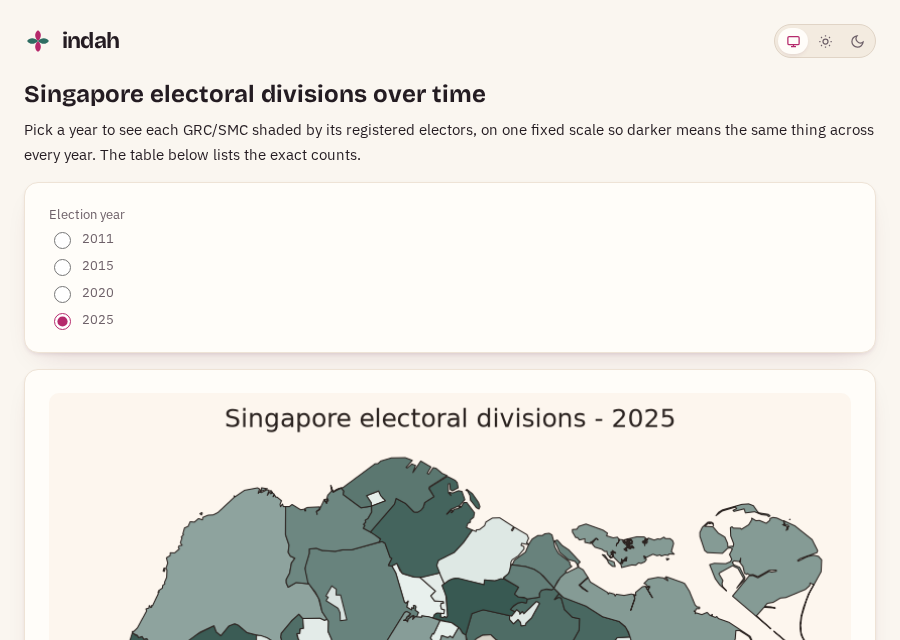
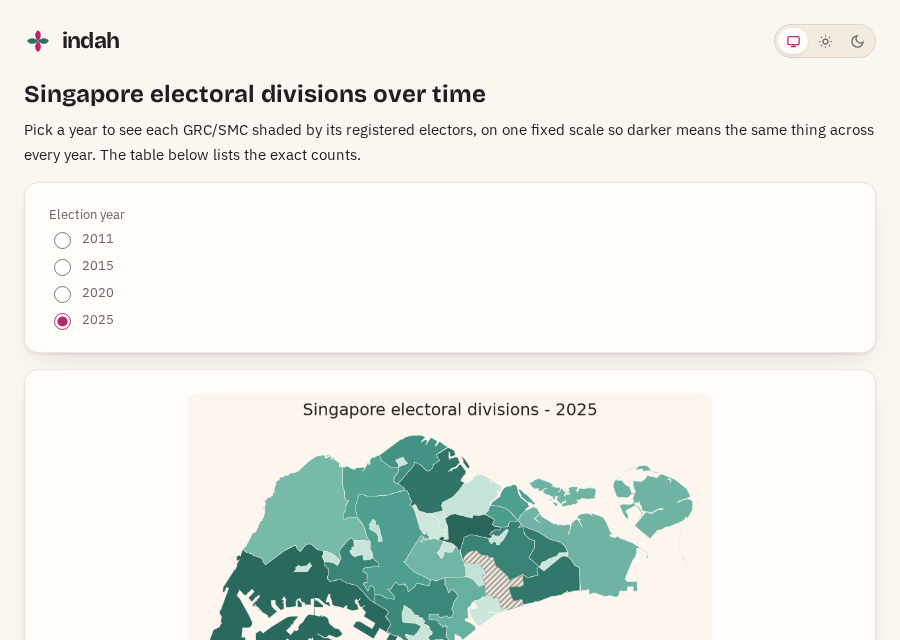
GRC map demo: readable colourbar, better ramp, hatched no-data, light outlines (IND-231) (#284)

Changed region(s): [[0.1244, 0.625, 0.9333, 1.0]]

diff --git a/examples/grc_map.py b/examples/grc_map.py
@@ -670,10 +670,14 @@ _CACHE: dict[str, str] = {
 YEARS: list[str] = sorted(_CACHE)
 DEFAULT_YEAR = YEARS[-1] if YEARS else ""
 
-NO_DATA_COLOR = "#d8d2c8"  # a neutral Studio muted tone
+NO_DATA_COLOR = "#e9e4dc"  # drawn hatched, so it never reads as "the lowest count"
+NO_DATA_EDGE = "#9a928a"
 INK = "#2b2320"
-RAMP_LOW = "#eef5f2"  # pale teal tint
-RAMP_HIGH = "#173d35"  # deep teal, darker than the Studio accent for more range
+BACKGROUND = "#fdf6ee"
+RAMP_LOW = "#d3e9e0"  # light teal, still visible against the page background
+RAMP_MID = ("#92cbb9", "#45998a")  # two mid stops so the middle of the range is not muddy grey
+RAMP_HIGH = "#0f3a31"  # deep teal, darker than the Studio accent for more range
+RAMP = [RAMP_LOW, *RAMP_MID, RAMP_HIGH]
 
 _decoded: dict[str, dict[str, Any]] = {}
 
@@ -698,15 +702,6 @@ def _global_domain() -> tuple[int, int]:
     return (min(values), max(values)) if values else (0, 1)
 
 
-def _lerp_color(t: float) -> tuple[float, float, float]:
-    def hex_to_rgb(h: str) -> tuple[float, float, float]:
-        h = h.lstrip("#")
-        return tuple(int(h[i : i + 2], 16) / 255 for i in (0, 2, 4))
-
-    lo, hi = hex_to_rgb(RAMP_LOW), hex_to_rgb(RAMP_HIGH)
-    return tuple(lo[i] + (hi[i] - lo[i]) * t for i in range(3))
-
-
 def render_choropleth(year: str):
     """Render one year's divisions as a styled matplotlib Figure, colored by
     registered electors on the fixed global scale."""
@@ -719,33 +714,48 @@ def render_choropleth(year: str):
     from matplotlib.collections import PolyCollection
     from matplotlib.colors import LinearSegmentedColormap, Normalize
     from matplotlib.figure import Figure
+    from matplotlib.patches import Patch
+    from matplotlib.ticker import FuncFormatter, MaxNLocator
 
     data = _load(year)
     vmin, vmax = _global_domain()
-    cmap = LinearSegmentedColormap.from_list("indah_teal", [RAMP_LOW, RAMP_HIGH])
+    cmap = LinearSegmentedColormap.from_list("indah_teal", RAMP)
     norm = Normalize(vmin=vmin, vmax=vmax)
 
     rings: list[list[list[float]]] = []
-    colors: list[tuple[float, float, float]] = []
+    colors: list[tuple[float, ...]] = []
+    missing: list[list[list[float]]] = []
     all_lat: list[float] = []
     for division in data["divisions"]:
         count = division["electors"]
-        color = _lerp_color(norm(count)) if count is not None else _lerp_color(-1)
         for ring in division["rings"]:
-            rings.append(ring)
-            colors.append(color if count is not None else None)
+            if count is None:
+                missing.append(ring)
+            else:
+                rings.append(ring)
+                colors.append(cmap(norm(count)))
             all_lat.extend(y for _x, y in ring)
-    # `None` placeholders (no-data divisions) render as the neutral gray, not the ramp.
-    face_colors = [c if c is not None else NO_DATA_COLOR for c in colors]
 
     lat0 = sum(all_lat) / len(all_lat) if all_lat else 1.35
 
     fig = Figure(figsize=(6, 4.6), dpi=150)
     ax = fig.add_subplot(111)
-    fig.patch.set_facecolor("#fdf6ee")
-    ax.set_facecolor("#fdf6ee")
-    coll = PolyCollection(rings, facecolors=face_colors, edgecolors=INK, linewidths=0.5)
-    ax.add_collection(coll)
+    fig.patch.set_facecolor(BACKGROUND)
+    ax.set_facecolor(BACKGROUND)
+    # Pale hairlines between the fills, not heavy ink outlines.
+    ax.add_collection(
+        PolyCollection(rings, facecolors=colors, edgecolors=BACKGROUND, linewidths=0.3)
+    )
+    if missing:
+        ax.add_collection(
+            PolyCollection(
+                missing,
+                facecolors=NO_DATA_COLOR,
+                edgecolors=NO_DATA_EDGE,
+                linewidths=0.3,
+                hatch="//////",
+            )
+        )
     ax.autoscale_view()
     ax.set_aspect(1 / math.cos(math.radians(lat0)))
     ax.axis("off")
@@ -755,6 +765,27 @@ def render_choropleth(year: str):
     cbar = fig.colorbar(sm, ax=ax, orientation="horizontal", fraction=0.05, pad=0.03, shrink=0.6)
     cbar.set_label("Registered electors", fontsize=8, color=INK)
     cbar.ax.tick_params(labelsize=7, color=INK, labelcolor=INK)
+    cbar.locator = MaxNLocator(nbins=5, steps=[1, 2, 5, 10])
+    cbar.formatter = FuncFormatter(lambda x, _pos: f"{x / 1000:.0f}k")  # "100k", not "100000"
+    cbar.update_ticks()
+    cbar.outline.set_edgecolor(INK)
+    cbar.outline.set_linewidth(0.5)
+    if missing:
+        ax.legend(
+            handles=[
+                Patch(
+                    facecolor=NO_DATA_COLOR,
+                    edgecolor=NO_DATA_EDGE,
+                    hatch="//////",
+                    linewidth=0.3,
+                    label="No data (not in the electors table)",
+                )
+            ],
+            loc="lower right",
+            fontsize=7,
+            frameon=False,
+            labelcolor=INK,
+        )
 
     ax.set_title(f"Singapore electoral divisions - {year}", fontsize=12, color=INK, pad=10)
     fig.text(

diff --git a/tests/integration/test_grc_map_example.py b/tests/integration/test_grc_map_example.py
@@ -101,3 +101,40 @@ def test_table_columns_are_sized_to_fit_a_phone():
     assert name.truncate is True
     assert name.max_width == "18ch"
     assert len(electors.title) <= 10  # "Electors", not "Registered electors"
+
+
+@pytest.mark.integration
+def test_colourbar_ticks_are_few_and_readable():
+    """The ticks used to run together ("100000120000140000"): few of them, with a compact format."""
+    gm = _load_example()
+    fig = gm.render_choropleth(gm.DEFAULT_YEAR)
+    cbar_ax = fig.axes[-1]
+    fig.canvas.draw()
+    labels = [t.get_text() for t in cbar_ax.get_xticklabels() if t.get_text()]
+    assert 3 <= len(labels) <= 6
+    assert all(len(label) <= 5 for label in labels), labels  # e.g. "100k", never "100000"
+    assert any(label.endswith("k") for label in labels)
+
+
+@pytest.mark.integration
+def test_no_data_is_distinct_from_the_low_end_and_is_in_the_legend():
+    gm = _load_example()
+    fig = gm.render_choropleth(gm.DEFAULT_YEAR)
+    assert gm.NO_DATA_COLOR.lower() not in {gm.RAMP_LOW.lower(), "#d8d2c8"}  # not the old beige
+    legend_texts = [t.get_text() for t in fig.texts] + [
+        t.get_text() for ax in fig.axes for t in ax.texts
+    ]
+    legend = fig.axes[0].get_legend()
+    if legend is not None:
+        legend_texts += [t.get_text() for t in legend.get_texts()]
+    assert any("no data" in t.lower() for t in legend_texts)
+
+
+@pytest.mark.integration
+def test_division_outlines_are_light_not_heavy():
+    gm = _load_example()
+    fig = gm.render_choropleth(gm.DEFAULT_YEAR)
+    coll = fig.axes[0].collections[0]
+    assert max(coll.get_linewidths()) <= 0.3
+    edge = coll.get_edgecolor()[0][:3]
+    assert sum(edge) / 3 > 0.7  # a pale line between fills, not black ink

diff --git a/CHANGELOG.md b/CHANGELOG.md
@@ -54,6 +54,9 @@ Earlier releases (0.1.0 to 0.2.2) are described on the
   phone-width stat tiles; the expense tracker shows a currency and a labelled category table
   instead of unlabelled bars; the cellular automaton opens on a busier "garden" with square
   cells on desktop; the Markov poet ends on a full stop and keeps its notes in the poem card.
+- GRC map demo: the colourbar ticks read "50k, 100k, 150k" instead of running together, the ramp has
+  mid stops so the middle is no longer muddy, divisions with no data are hatched and named in a legend
+  (they used to read as the lowest count), and the outlines are pale hairlines (IND-231).
 
 ### Fixed
 
